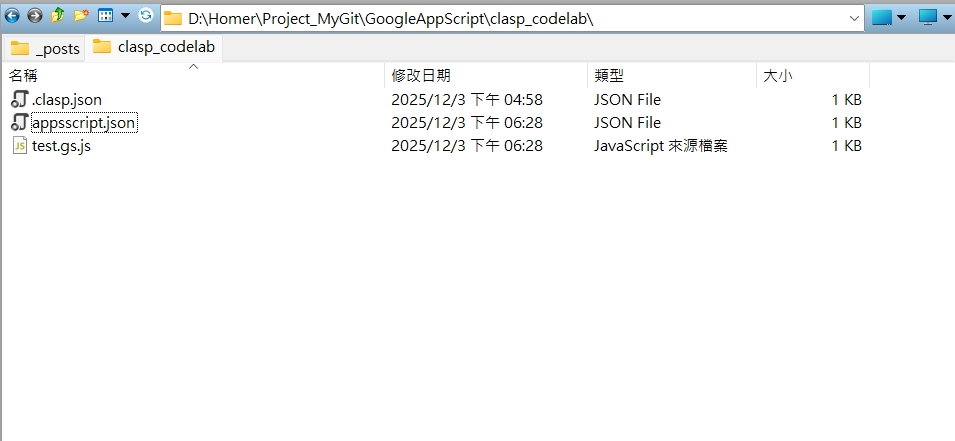
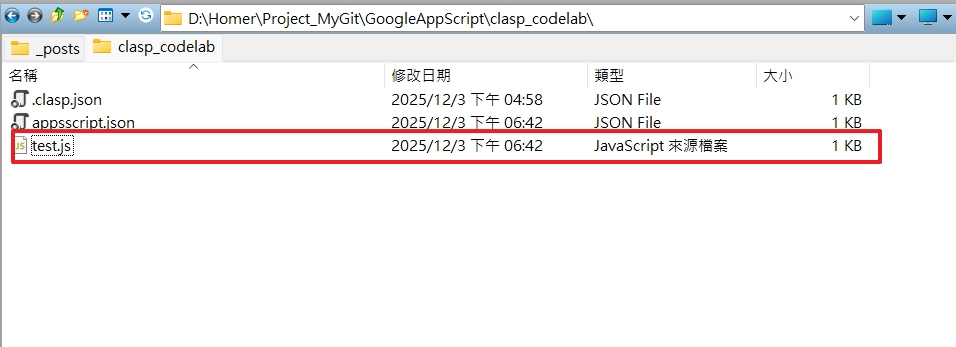
Site updated: 2025-12-03 18:48:11

Changed region(s): [[0.0, 0.0, 1.0, 0.4899]]

diff --git a/2025/12/03/Google-App-Script-GAS-應用/index.html b/2025/12/03/Google-App-Script-GAS-應用/index.html
@@ -24,8 +24,9 @@
 <meta property="og:image" content="http://example.com/2025/12/03/Google-App-Script-GAS-%E6%87%89%E7%94%A8/clasp_9.jpg">
 <meta property="og:image" content="http://example.com/2025/12/03/Google-App-Script-GAS-%E6%87%89%E7%94%A8/clasp_10.jpg">
 <meta property="og:image" content="http://example.com/2025/12/03/Google-App-Script-GAS-%E6%87%89%E7%94%A8/clasp_11.jpg">
+<meta property="og:image" content="http://example.com/2025/12/03/Google-App-Script-GAS-%E6%87%89%E7%94%A8/clasp_12.jpg">
 <meta property="article:published_time" content="2025-12-03T06:32:25.000Z">
-<meta property="article:modified_time" content="2025-12-03T10:29:47.382Z">
+<meta property="article:modified_time" content="2025-12-03T10:47:47.003Z">
 <meta property="article:author" content="John Doe">
 <meta property="article:tag" content="GAS">
 <meta name="twitter:card" content="summary">
@@ -172,7 +173,7 @@
 <h5 id="到Google-App-Script的管理頁看，也會多了一個叫clasp-condelab的新專案。"><a href="#到Google-App-Script的管理頁看，也會多了一個叫clasp-condelab的新專案。" class="headerlink" title="到Google App Script的管理頁看，也會多了一個叫clasp_condelab的新專案。"></a>到Google App Script的管理頁看，也會多了一個叫clasp_condelab的新專案。</h5><img src="/2025/12/03/Google-App-Script-GAS-%E6%87%89%E7%94%A8/clasp_8.jpg" class="" title="new project">
 <h1 id="-44"><a href="#-44" class="headerlink" title=""></a></h1><h1 id="-45"><a href="#-45" class="headerlink" title=""></a></h1><h1 id="-46"><a href="#-46" class="headerlink" title=""></a></h1><h1 id="-47"><a href="#-47" class="headerlink" title=""></a></h1></li>
 <li><h5 id="push-pull"><a href="#push-pull" class="headerlink" title="push &amp; pull"></a>push &amp; pull</h5><ol>
-<li><h5 id="接著來試試看pull功能，我們在專案clasp-condelab的線上編輯器新增一個test-gs檔案。並在裡面新增內容"><a href="#接著來試試看pull功能，我們在專案clasp-condelab的線上編輯器新增一個test-gs檔案。並在裡面新增內容" class="headerlink" title="接著來試試看pull功能，我們在專案clasp_condelab的線上編輯器新增一個test.gs檔案。並在裡面新增內容"></a>接著來試試看pull功能，我們在專案clasp_condelab的線上編輯器新增一個test.gs檔案。並在裡面新增內容</h5></li>
+<li><h5 id="接著來試試看pull功能，我們在專案clasp-condelab的線上編輯器新增一個test檔案-不用副檔名-。並在裡面新增內容。編輯完成後要記得點選存檔"><a href="#接著來試試看pull功能，我們在專案clasp-condelab的線上編輯器新增一個test檔案-不用副檔名-。並在裡面新增內容。編輯完成後要記得點選存檔" class="headerlink" title="接著來試試看pull功能，我們在專案clasp_condelab的線上編輯器新增一個test檔案(不用副檔名)。並在裡面新增內容。編輯完成後要記得點選存檔!!"></a>接著來試試看pull功能，我們在專案clasp_condelab的線上編輯器新增一個test檔案(不用副檔名)。並在裡面新增內容。編輯完成後要記得點選存檔!!</h5></li>
 </ol>
 <img src="/2025/12/03/Google-App-Script-GAS-%E6%87%89%E7%94%A8/clasp_9.jpg" class="" title="add new file">
 <h1 id="-48"><a href="#-48" class="headerlink" title=""></a></h1><h1 id="-49"><a href="#-49" class="headerlink" title=""></a></h1><h1 id="-50"><a href="#-50" class="headerlink" title=""></a></h1><h1 id="-51"><a href="#-51" class="headerlink" title=""></a></h1><img src="/2025/12/03/Google-App-Script-GAS-%E6%87%89%E7%94%A8/clasp_10.jpg" class="" title="add new file content">
@@ -181,8 +182,21 @@
 </ol>
 <figure class="highlight bash"><table><tr><td class="gutter"><pre><span class="line">1</span><br></pre></td><td class="code"><pre><span class="line">clasp pull</span><br></pre></td></tr></table></figure>
 <img src="/2025/12/03/Google-App-Script-GAS-%E6%87%89%E7%94%A8/clasp_11.jpg" class="" title="pull done."></li>
+<li><h5 id="版本管理與部署，clasp-可讓您管理版本和部署作業。首先介紹一些詞彙："><a href="#版本管理與部署，clasp-可讓您管理版本和部署作業。首先介紹一些詞彙：" class="headerlink" title="版本管理與部署，clasp 可讓您管理版本和部署作業。首先介紹一些詞彙："></a>版本管理與部署，clasp 可讓您管理版本和部署作業。首先介紹一些詞彙：</h5><ul>
+<li><h5 id="版本：「快照」編寫程式碼版本可視為用於部署作業的唯讀分支版本。"><a href="#版本：「快照」編寫程式碼版本可視為用於部署作業的唯讀分支版本。" class="headerlink" title="版本：「快照」編寫程式碼版本可視為用於部署作業的唯讀分支版本。"></a>版本：「快照」編寫程式碼版本可視為用於部署作業的唯讀分支版本。</h5></li>
+<li><h5 id="部署作業：指令碼專案的已發布版本-通常是外掛程式或網頁應用程式-。需要版本號碼。"><a href="#部署作業：指令碼專案的已發布版本-通常是外掛程式或網頁應用程式-。需要版本號碼。" class="headerlink" title="部署作業：指令碼專案的已發布版本 (通常是外掛程式或網頁應用程式)。需要版本號碼。"></a>部署作業：指令碼專案的已發布版本 (通常是外掛程式或網頁應用程式)。需要版本號碼。</h5></li>
+</ul>
+<ol>
+<li><h5 id="建立快照前，對程式做些修改-修改完後也是要記得存檔-。"><a href="#建立快照前，對程式做些修改-修改完後也是要記得存檔-。" class="headerlink" title="建立快照前，對程式做些修改(修改完後也是要記得存檔!)。"></a>建立快照前，對程式做些修改(修改完後也是要記得存檔!)。</h5></li>
 </ol>
-<h1 id="-56"><a href="#-56" class="headerlink" title=""></a></h1><h1 id="-57"><a href="#-57" class="headerlink" title=""></a></h1><h1 id="-58"><a href="#-58" class="headerlink" title=""></a></h1><h1 id="-59"><a href="#-59" class="headerlink" title=""></a></h1><hr>
+ <img src="/2025/12/03/Google-App-Script-GAS-%E6%87%89%E7%94%A8/clasp_12.jpg" class="">
+<h1 id="-56"><a href="#-56" class="headerlink" title=""></a></h1><h1 id="-57"><a href="#-57" class="headerlink" title=""></a></h1><h1 id="-58"><a href="#-58" class="headerlink" title=""></a></h1><h1 id="-59"><a href="#-59" class="headerlink" title=""></a></h1><ol start="2">
+<li><h5 id="接著執行指令，建立快照"><a href="#接著執行指令，建立快照" class="headerlink" title="接著執行指令，建立快照"></a>接著執行指令，建立快照</h5></li>
+</ol>
+ <figure class="highlight bash"><table><tr><td class="gutter"><pre><span class="line">1</span><br></pre></td><td class="code"><pre><span class="line">clasp version <span class="string">&quot;First version&quot;</span></span><br></pre></td></tr></table></figure>
+ <figure class="highlight bash"><table><tr><td class="gutter"><pre><span class="line">1</span><br></pre></td><td class="code"><pre><span class="line">clasp deploy 1 <span class="string">&quot;First deployment&quot;</span></span><br></pre></td></tr></table></figure></li>
+</ol>
+<h1 id="-60"><a href="#-60" class="headerlink" title=""></a></h1><h1 id="-61"><a href="#-61" class="headerlink" title=""></a></h1><h1 id="-62"><a href="#-62" class="headerlink" title=""></a></h1><h1 id="-63"><a href="#-63" class="headerlink" title=""></a></h1><hr>
 <ul>
 <li><h5 id="Ref："><a href="#Ref：" class="headerlink" title="Ref："></a>Ref：</h5><ol>
 <li><h5 id="clasp-Apps-Script-CLI"><a href="#clasp-Apps-Script-CLI" class="headerlink" title="clasp - Apps Script CLI"></a><a target="_blank" rel="noopener" href="https://codelabs.developers.google.com/codelabs/clasp?hl=zh-tw#0">clasp - Apps Script CLI</a></h5></li>
@@ -194,7 +208,7 @@
       
     </div>
     <footer class="article-footer">
-      <a data-url="http://example.com/2025/12/03/Google-App-Script-GAS-%E6%87%89%E7%94%A8/" data-id="cmipvn6mn0004tkn1b7vm3q0x" data-title="Google App Script(GAS)應用" class="article-share-link"><span class="fa fa-share">Share</span></a>
+      <a data-url="http://example.com/2025/12/03/Google-App-Script-GAS-%E6%87%89%E7%94%A8/" data-id="cmipvvmmw000190n1fgbzctm9" data-title="Google App Script(GAS)應用" class="article-share-link"><span class="fa fa-share">Share</span></a>
       
       
       

diff --git a/index.html b/index.html
@@ -110,7 +110,7 @@
       
     </div>
     <footer class="article-footer">
-      <a data-url="http://example.com/2025/12/03/Google-App-Script-GAS-%E6%87%89%E7%94%A8/" data-id="cmipvn6mn0004tkn1b7vm3q0x" data-title="Google App Script(GAS)應用" class="article-share-link"><span class="fa fa-share">Share</span></a>
+      <a data-url="http://example.com/2025/12/03/Google-App-Script-GAS-%E6%87%89%E7%94%A8/" data-id="cmipvvmmw000190n1fgbzctm9" data-title="Google App Script(GAS)應用" class="article-share-link"><span class="fa fa-share">Share</span></a>
       
       
       
@@ -159,7 +159,7 @@
       
     </div>
     <footer class="article-footer">
-      <a data-url="http://example.com/2025/10/28/Line-API-%E7%BE%A4%E7%B5%84%E6%8E%A8%E6%92%AD/" data-id="cmipvn6mr0009tkn12ew4c54y" data-title="Line-API-群組推播" class="article-share-link"><span class="fa fa-share">Share</span></a>
+      <a data-url="http://example.com/2025/10/28/Line-API-%E7%BE%A4%E7%B5%84%E6%8E%A8%E6%92%AD/" data-id="cmipvvmn2000690n19ufl0b3e" data-title="Line-API-群組推播" class="article-share-link"><span class="fa fa-share">Share</span></a>
       
       
       
@@ -208,7 +208,7 @@
       
     </div>
     <footer class="article-footer">
-      <a data-url="http://example.com/2025/10/22/Simple-Docker-App/" data-id="cmipvn6my0011tkn10y258fls" data-title="Simple-Docker-App" class="article-share-link"><span class="fa fa-share">Share</span></a>
+      <a data-url="http://example.com/2025/10/22/Simple-Docker-App/" data-id="cmipvvmnd001890n18hcp9xyt" data-title="Simple-Docker-App" class="article-share-link"><span class="fa fa-share">Share</span></a>
       
       
       
@@ -257,7 +257,7 @@
       
     </div>
     <footer class="article-footer">
-      <a data-url="http://example.com/2025/10/01/Docker-with-WSL2-3-DockerCompose/" data-id="cmipvn6me0000tkn1blcjgrt4" data-title="Docker with WSL2(3) - 利用Docker Compose達到熱重載效果" class="article-share-link"><span class="fa fa-share">Share</span></a>
+      <a data-url="http://example.com/2025/10/01/Docker-with-WSL2-3-DockerCompose/" data-id="cmipvvmn0000490n1c9w18w60" data-title="Docker with WSL2(3) - 利用Docker Compose達到熱重載效果" class="article-share-link"><span class="fa fa-share">Share</span></a>
       
       
       
@@ -306,7 +306,7 @@
       
     </div>
     <footer class="article-footer">
-      <a data-url="http://example.com/2025/09/25/Docker-with-WSL2-2/" data-id="cmipvn6mj0001tkn1cd696ae5" data-title="Docker with WSL2(2) - Dockerfile" class="article-share-link"><span class="fa fa-share">Share</span></a>
+      <a data-url="http://example.com/2025/09/25/Docker-with-WSL2-2/" data-id="cmipvvmn1000590n1gvr95vzl" data-title="Docker with WSL2(2) - Dockerfile" class="article-share-link"><span class="fa fa-share">Share</span></a>
       
       
       
@@ -355,7 +355,7 @@
       
     </div>
     <footer class="article-footer">
-      <a data-url="http://example.com/2025/09/22/docker-with-WSL2-1/" data-id="cmipvn6n00016tkn10xzwcel4" data-title="Docker with WSL2(1) - 安裝Ubuntu + Docker Engin，並且建立快照備份!" class="article-share-link"><span class="fa fa-share">Share</span></a>
+      <a data-url="http://example.com/2025/09/22/docker-with-WSL2-1/" data-id="cmipvvmn4000b90n13lll9ddb" data-title="Docker with WSL2(1) - 安裝Ubuntu + Docker Engin，並且建立快照備份!" class="article-share-link"><span class="fa fa-share">Share</span></a>
       
       
       
@@ -404,7 +404,7 @@
       
     </div>
     <footer class="article-footer">
-      <a data-url="http://example.com/2025/09/22/Docker%20%E5%9F%BA%E6%9C%AC%E6%A6%82%E5%BF%B5/" data-id="cmipvn6mo0005tkn10vzh9t1e" data-title="Docker 基本概念" class="article-share-link"><span class="fa fa-share">Share</span></a>
+      <a data-url="http://example.com/2025/09/22/Docker%20%E5%9F%BA%E6%9C%AC%E6%A6%82%E5%BF%B5/" data-id="cmipvvmmr000090n127lfd2za" data-title="Docker 基本概念" class="article-share-link"><span class="fa fa-share">Share</span></a>
       
       
       
@@ -453,7 +453,7 @@
       
     </div>
     <footer class="article-footer">
-      <a data-url="http://example.com/2025/09/08/chrome%E5%A5%97%E4%BB%B6%E4%BD%BF%E7%94%A8Node-js%E5%A5%97%E4%BB%B6/" data-id="cmipvn6mp0006tkn13m6p25vj" data-title="Webpack打包(以Chrome extension為範例)" class="article-share-link"><span class="fa fa-share">Share</span></a>
+      <a data-url="http://example.com/2025/09/08/chrome%E5%A5%97%E4%BB%B6%E4%BD%BF%E7%94%A8Node-js%E5%A5%97%E4%BB%B6/" data-id="cmipvvmn3000a90n13p4j6hsk" data-title="Webpack打包(以Chrome extension為範例)" class="article-share-link"><span class="fa fa-share">Share</span></a>
       
       
       

diff --git a/2025/09/08/chrome套件使用Node-js套件/index.html b/2025/09/08/chrome套件使用Node-js套件/index.html
@@ -148,7 +148,7 @@
       
     </div>
     <footer class="article-footer">
-      <a data-url="http://example.com/2025/09/08/chrome%E5%A5%97%E4%BB%B6%E4%BD%BF%E7%94%A8Node-js%E5%A5%97%E4%BB%B6/" data-id="cmipvn6mp0006tkn13m6p25vj" data-title="Webpack打包(以Chrome extension為範例)" class="article-share-link"><span class="fa fa-share">Share</span></a>
+      <a data-url="http://example.com/2025/09/08/chrome%E5%A5%97%E4%BB%B6%E4%BD%BF%E7%94%A8Node-js%E5%A5%97%E4%BB%B6/" data-id="cmipvvmn3000a90n13p4j6hsk" data-title="Webpack打包(以Chrome extension為範例)" class="article-share-link"><span class="fa fa-share">Share</span></a>
       
       
       

diff --git a/2025/09/22/docker-with-WSL2-1/index.html b/2025/09/22/docker-with-WSL2-1/index.html
@@ -272,7 +272,7 @@
       
     </div>
     <footer class="article-footer">
-      <a data-url="http://example.com/2025/09/22/docker-with-WSL2-1/" data-id="cmipvn6n00016tkn10xzwcel4" data-title="Docker with WSL2(1) - 安裝Ubuntu + Docker Engin，並且建立快照備份!" class="article-share-link"><span class="fa fa-share">Share</span></a>
+      <a data-url="http://example.com/2025/09/22/docker-with-WSL2-1/" data-id="cmipvvmn4000b90n13lll9ddb" data-title="Docker with WSL2(1) - 安裝Ubuntu + Docker Engin，並且建立快照備份!" class="article-share-link"><span class="fa fa-share">Share</span></a>
       
       
       

diff --git a/2025/10/01/Docker-with-WSL2-3-DockerCompose/index.html b/2025/10/01/Docker-with-WSL2-3-DockerCompose/index.html
@@ -221,7 +221,7 @@
       
     </div>
     <footer class="article-footer">
-      <a data-url="http://example.com/2025/10/01/Docker-with-WSL2-3-DockerCompose/" data-id="cmipvn6me0000tkn1blcjgrt4" data-title="Docker with WSL2(3) - 利用Docker Compose達到熱重載效果" class="article-share-link"><span class="fa fa-share">Share</span></a>
+      <a data-url="http://example.com/2025/10/01/Docker-with-WSL2-3-DockerCompose/" data-id="cmipvvmn0000490n1c9w18w60" data-title="Docker with WSL2(3) - 利用Docker Compose達到熱重載效果" class="article-share-link"><span class="fa fa-share">Share</span></a>
       
       
       

diff --git a/2025/10/28/Line-API-群組推播/index.html b/2025/10/28/Line-API-群組推播/index.html
@@ -150,7 +150,7 @@
       
     </div>
     <footer class="article-footer">
-      <a data-url="http://example.com/2025/10/28/Line-API-%E7%BE%A4%E7%B5%84%E6%8E%A8%E6%92%AD/" data-id="cmipvn6mr0009tkn12ew4c54y" data-title="Line-API-群組推播" class="article-share-link"><span class="fa fa-share">Share</span></a>
+      <a data-url="http://example.com/2025/10/28/Line-API-%E7%BE%A4%E7%B5%84%E6%8E%A8%E6%92%AD/" data-id="cmipvvmn2000690n19ufl0b3e" data-title="Line-API-群組推播" class="article-share-link"><span class="fa fa-share">Share</span></a>
       
       
       

diff --git a/2025/09/22/Docker 基本概念/index.html b/2025/09/22/Docker 基本概念/index.html
@@ -188,7 +188,7 @@
       
     </div>
     <footer class="article-footer">
-      <a data-url="http://example.com/2025/09/22/Docker%20%E5%9F%BA%E6%9C%AC%E6%A6%82%E5%BF%B5/" data-id="cmipvn6mo0005tkn10vzh9t1e" data-title="Docker 基本概念" class="article-share-link"><span class="fa fa-share">Share</span></a>
+      <a data-url="http://example.com/2025/09/22/Docker%20%E5%9F%BA%E6%9C%AC%E6%A6%82%E5%BF%B5/" data-id="cmipvvmmr000090n127lfd2za" data-title="Docker 基本概念" class="article-share-link"><span class="fa fa-share">Share</span></a>
       
       
       

diff --git a/2025/09/25/Docker-with-WSL2-2/index.html b/2025/09/25/Docker-with-WSL2-2/index.html
@@ -322,7 +322,7 @@
       
     </div>
     <footer class="article-footer">
-      <a data-url="http://example.com/2025/09/25/Docker-with-WSL2-2/" data-id="cmipvn6mj0001tkn1cd696ae5" data-title="Docker with WSL2(2) - Dockerfile" class="article-share-link"><span class="fa fa-share">Share</span></a>
+      <a data-url="http://example.com/2025/09/25/Docker-with-WSL2-2/" data-id="cmipvvmn1000590n1gvr95vzl" data-title="Docker with WSL2(2) - Dockerfile" class="article-share-link"><span class="fa fa-share">Share</span></a>
       
       
       

diff --git a/2025/10/22/Simple-Docker-App/index.html b/2025/10/22/Simple-Docker-App/index.html
@@ -209,7 +209,7 @@
       
     </div>
     <footer class="article-footer">
-      <a data-url="http://example.com/2025/10/22/Simple-Docker-App/" data-id="cmipvn6my0011tkn10y258fls" data-title="Simple-Docker-App" class="article-share-link"><span class="fa fa-share">Share</span></a>
+      <a data-url="http://example.com/2025/10/22/Simple-Docker-App/" data-id="cmipvvmnd001890n18hcp9xyt" data-title="Simple-Docker-App" class="article-share-link"><span class="fa fa-share">Share</span></a>
       
       
       
